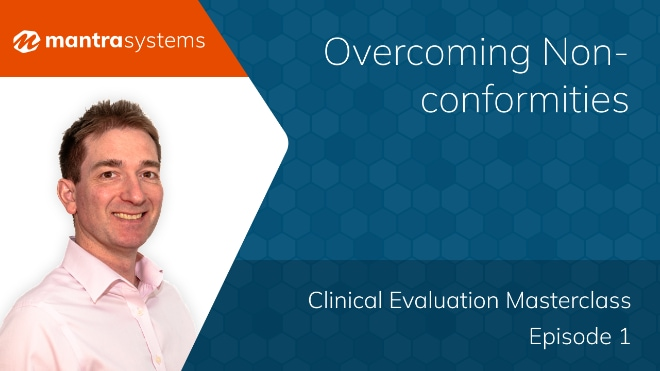
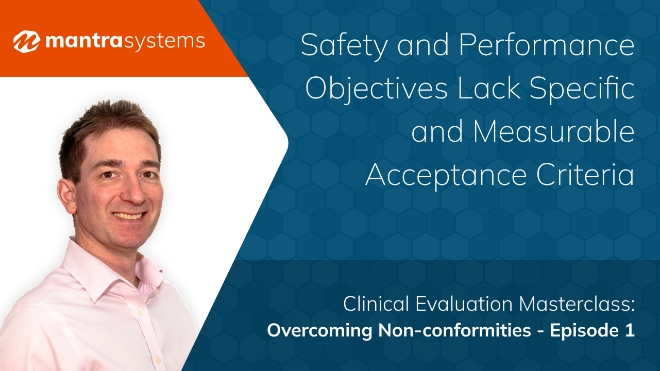
New thumbnails for 2x video articles

diff --git a/docs/articles/clinical-evaluation-masterclass-2-appraisal-of-literature-sources-has-not-been-conducted-properly.html b/docs/articles/clinical-evaluation-masterclass-2-appraisal-of-literature-sources-has-not-been-conducted-properly.html
@@ -42,7 +42,7 @@
     <meta property="og:description" content="Our ongoing series covers one of the most frequent reasons for CER rejection: a poor appraisal of literature sources.">
     <meta property="og:publish_date" content="2025-04-09T00:00:00+01:00">
     <meta property="article:published_time" content="2025-04-09T00:00:00+01:00">
-    <meta property="article:modified_time" content="2025-04-09T08:01:59+01:00">
+    <meta property="article:modified_time" content="2025-04-09T08:03:31+01:00">
     <meta property="og:url" content="https://www.mantrasystems.co.uk/articles/clinical-evaluation-masterclass-2-appraisal-of-literature-sources-has-not-been-conducted-properly">
     <meta property="og:type" content="website">
     <meta property="og:image" content="https://www.mantrasystems.co.uk/assets/images/content/articles/clinical-evaluation-masterclass-2-appraisal-of-literature-sources-has-not-been-conducted-properly.jpg">
@@ -61,7 +61,7 @@
               "height": 371
             },
             "datePublished": "2025-04-09T00:00:00+01:00",
-            "dateModified": "2025-04-09T08:01:59+01:00",
+            "dateModified": "2025-04-09T08:03:31+01:00",
             "author": [
               {
                 "@type": "Person",
